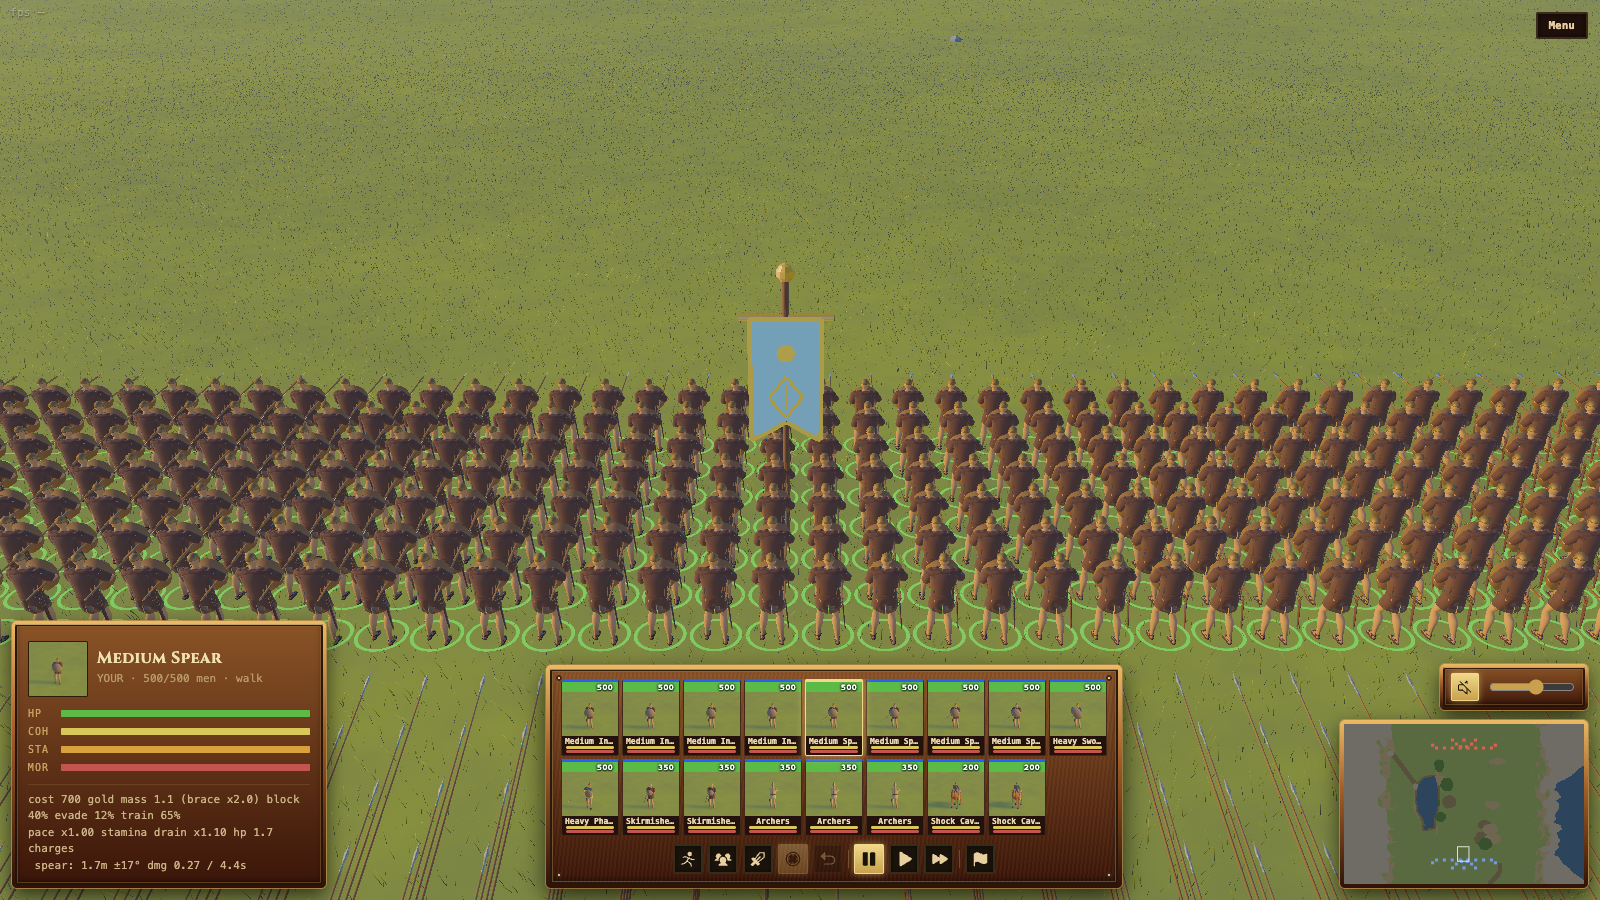
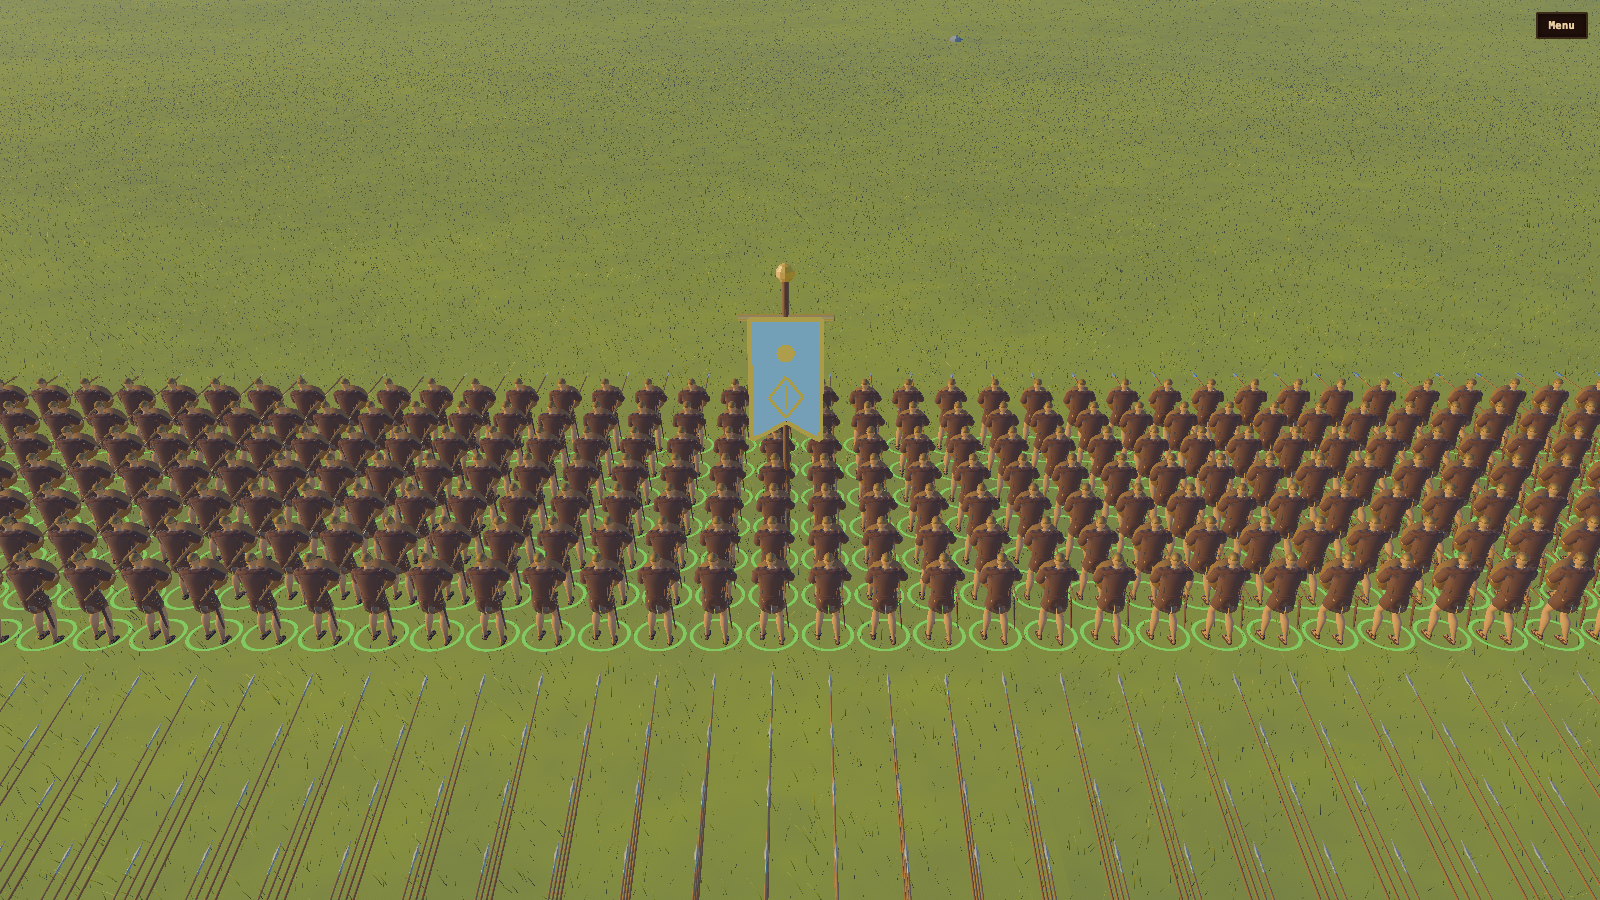
Harden formation preview checks and isolate camera screenshot framing

Changed region(s): [[0.3125, 0.7156, 0.7188, 1.0], [0.0, 0.6844, 0.2188, 1.0], [0.8125, 0.7156, 1.0, 1.0]]

diff --git a/web/reports/battle-camera-input.md b/web/reports/battle-camera-input.md
@@ -64,3 +64,25 @@ error; the test now checks the actual pixels supplied to the input system.
   shows a full horizon, so this capture does not establish combat visibility.
 - Independent code review found no actionable regressions after tracing the
   input, formation-order, camera, and shared consumers.
+
+## Follow-up verification review
+
+The production controls needed no further change. The browser helpers now read
+unit fields from the production layout instead of maintaining a second offset
+map. The drag-preview check verifies the current destination and orientation;
+an earlier point-order preview can no longer satisfy it merely by existing.
+
+| Test | Previous behavior | New behavior | Why |
+| --- | --- | --- | --- |
+| `battle-terrain-controls`: drag preview | Any non-null preview passed, including the preceding point-order preview. | The preview must occupy the drag destination and have its requested axis. | Distinguishes the current formation drag from stale feedback. **strengthened** |
+| Unit-info browser readers | Copied or literal buffer indices. | Consume the production field map. | Keeps the same behavioral assertions without a parallel layout contract. **unchanged behavior** |
+| `battle-camera-approach`: image scope | Included a HUD whose tray repaint differed between repeated captures, even with no active animations; battlefield pixels matched. | Captures the camera view without the HUD. | Keeps this gate about framing; the controls flow separately verifies formation feedback. **baseline updated** |
+
+The stronger preview assertion passed against the live game and failed when
+its drag press/release were deliberately suppressed, leaving the earlier point
+preview visible. All 422 web tests and typecheck passed. Independent review
+found no production correctness regression; the follow-up changes only test
+readers, assertions, the camera capture, and this report.
+The camera-only snapshot then repeated against the live build with zero pixel
+differences. The HUD remains visible in the game; only this framing capture
+excludes it.
